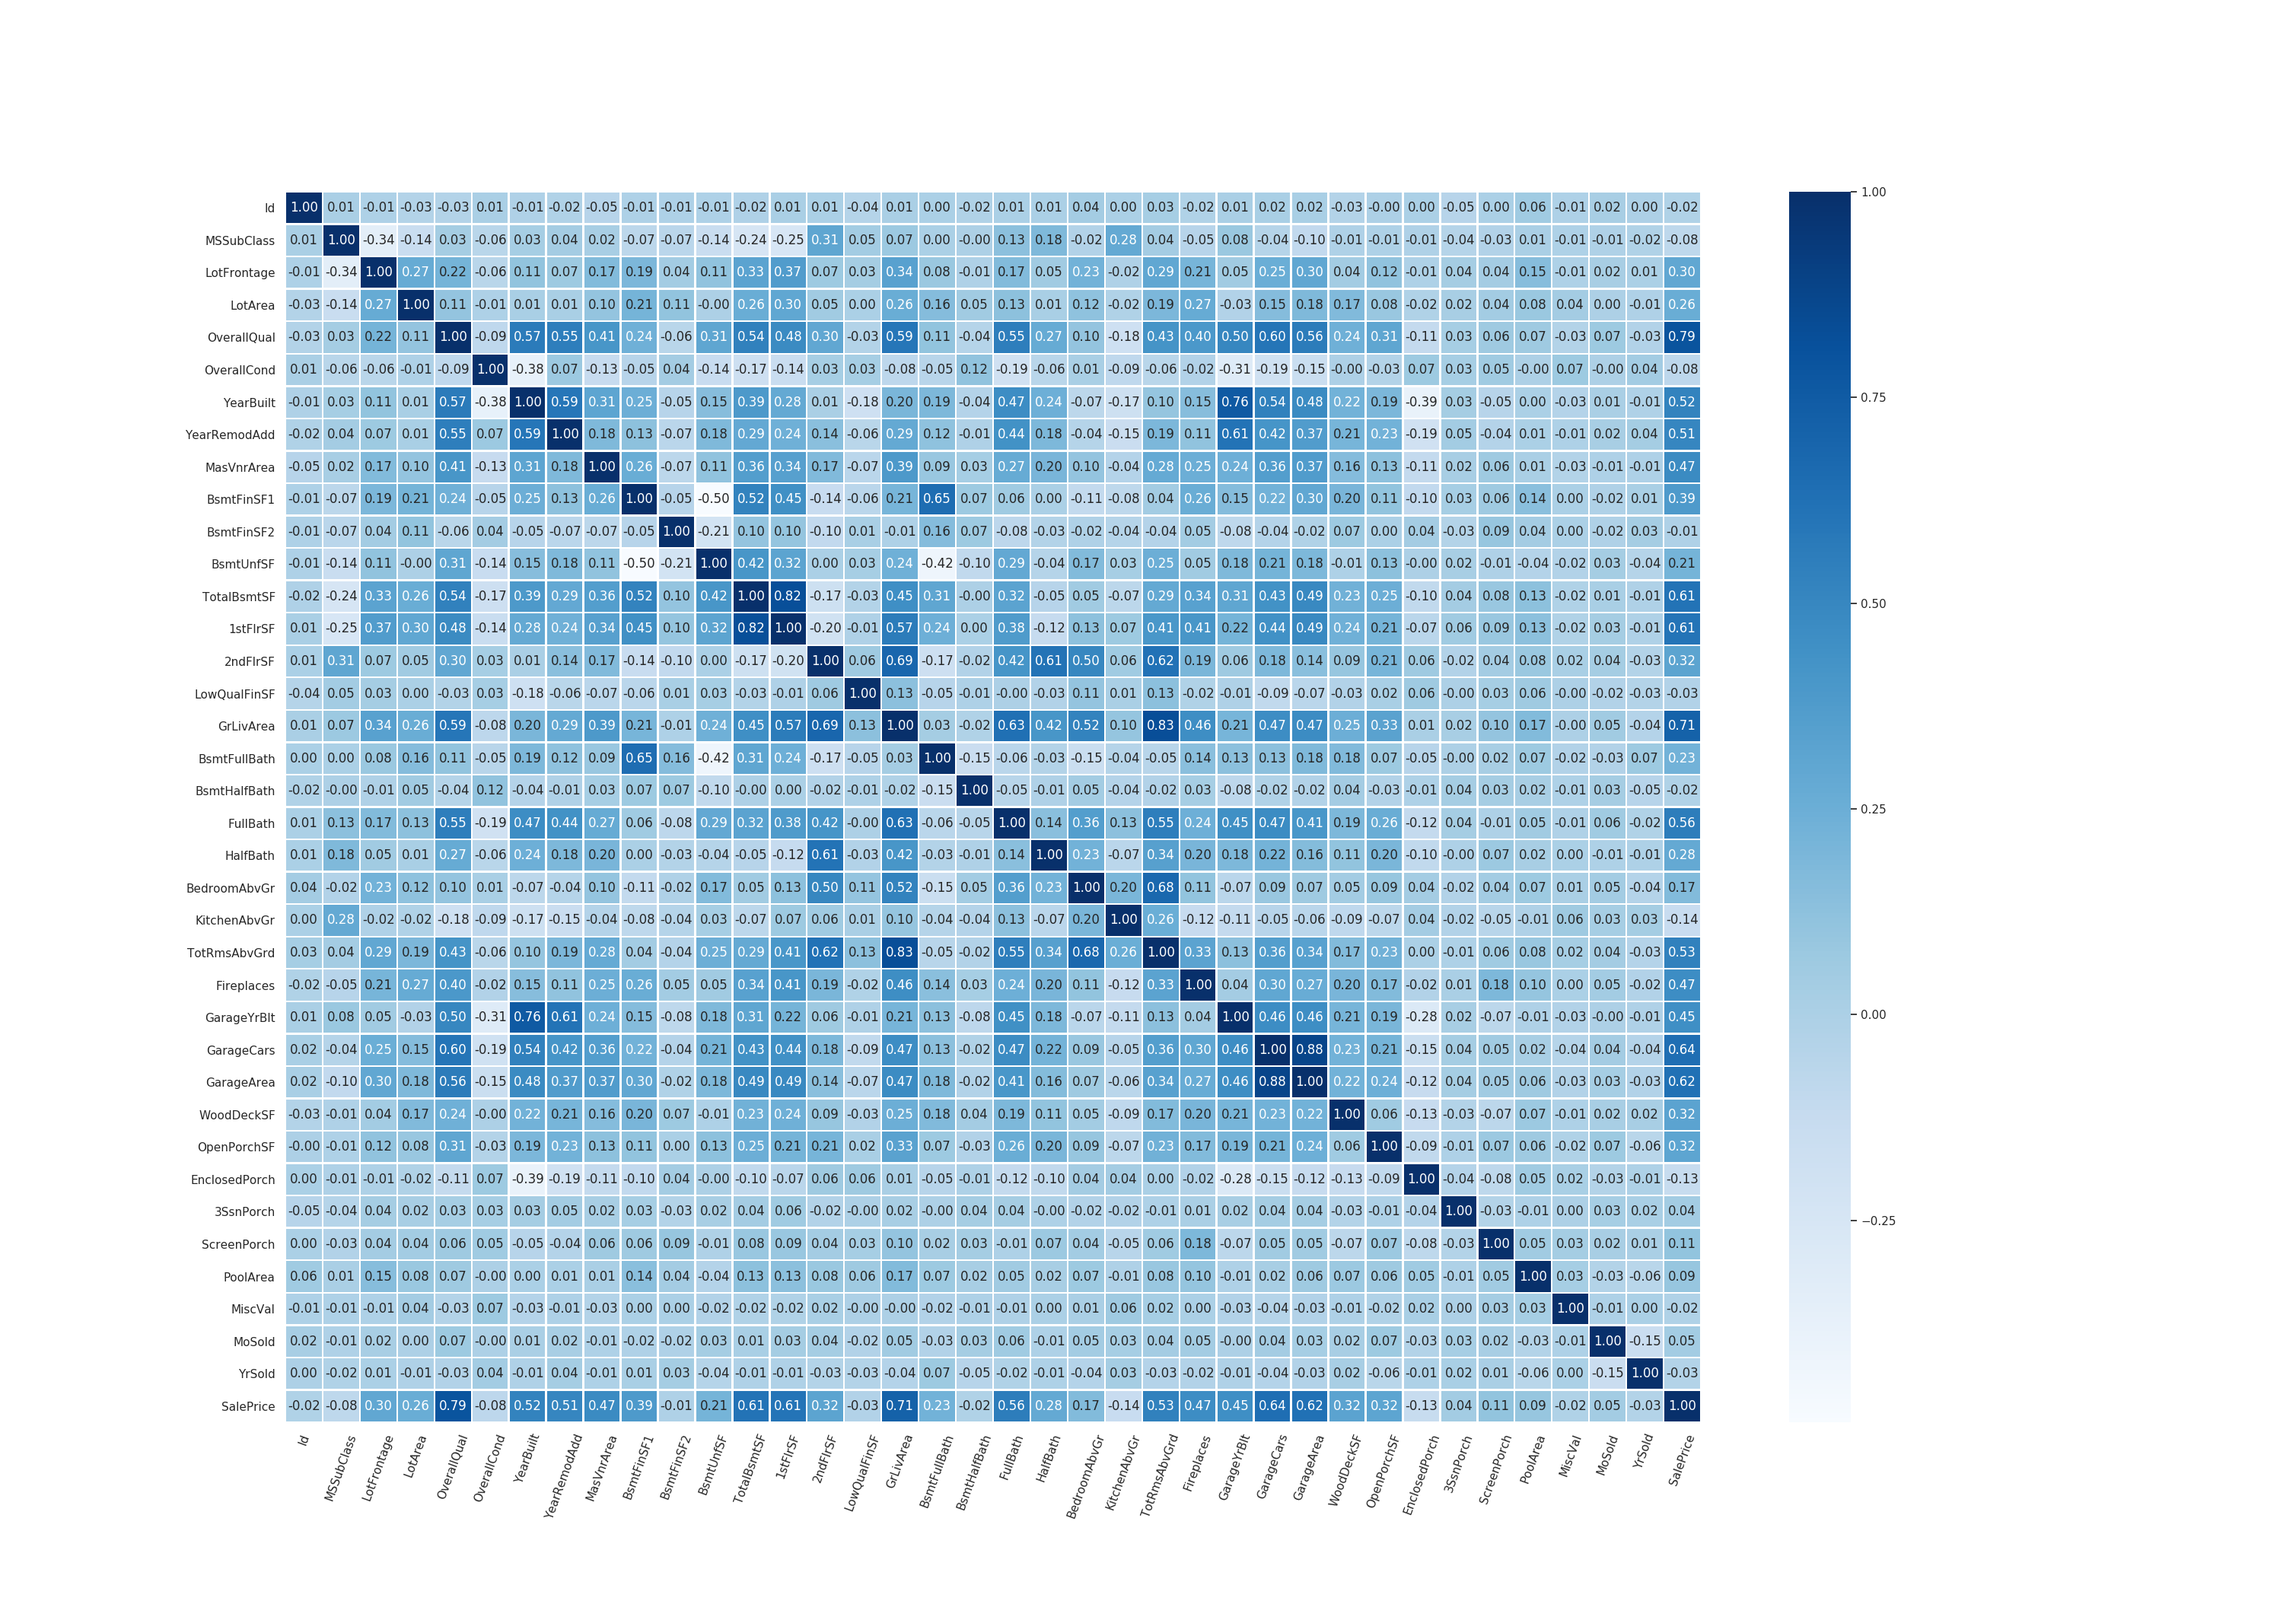
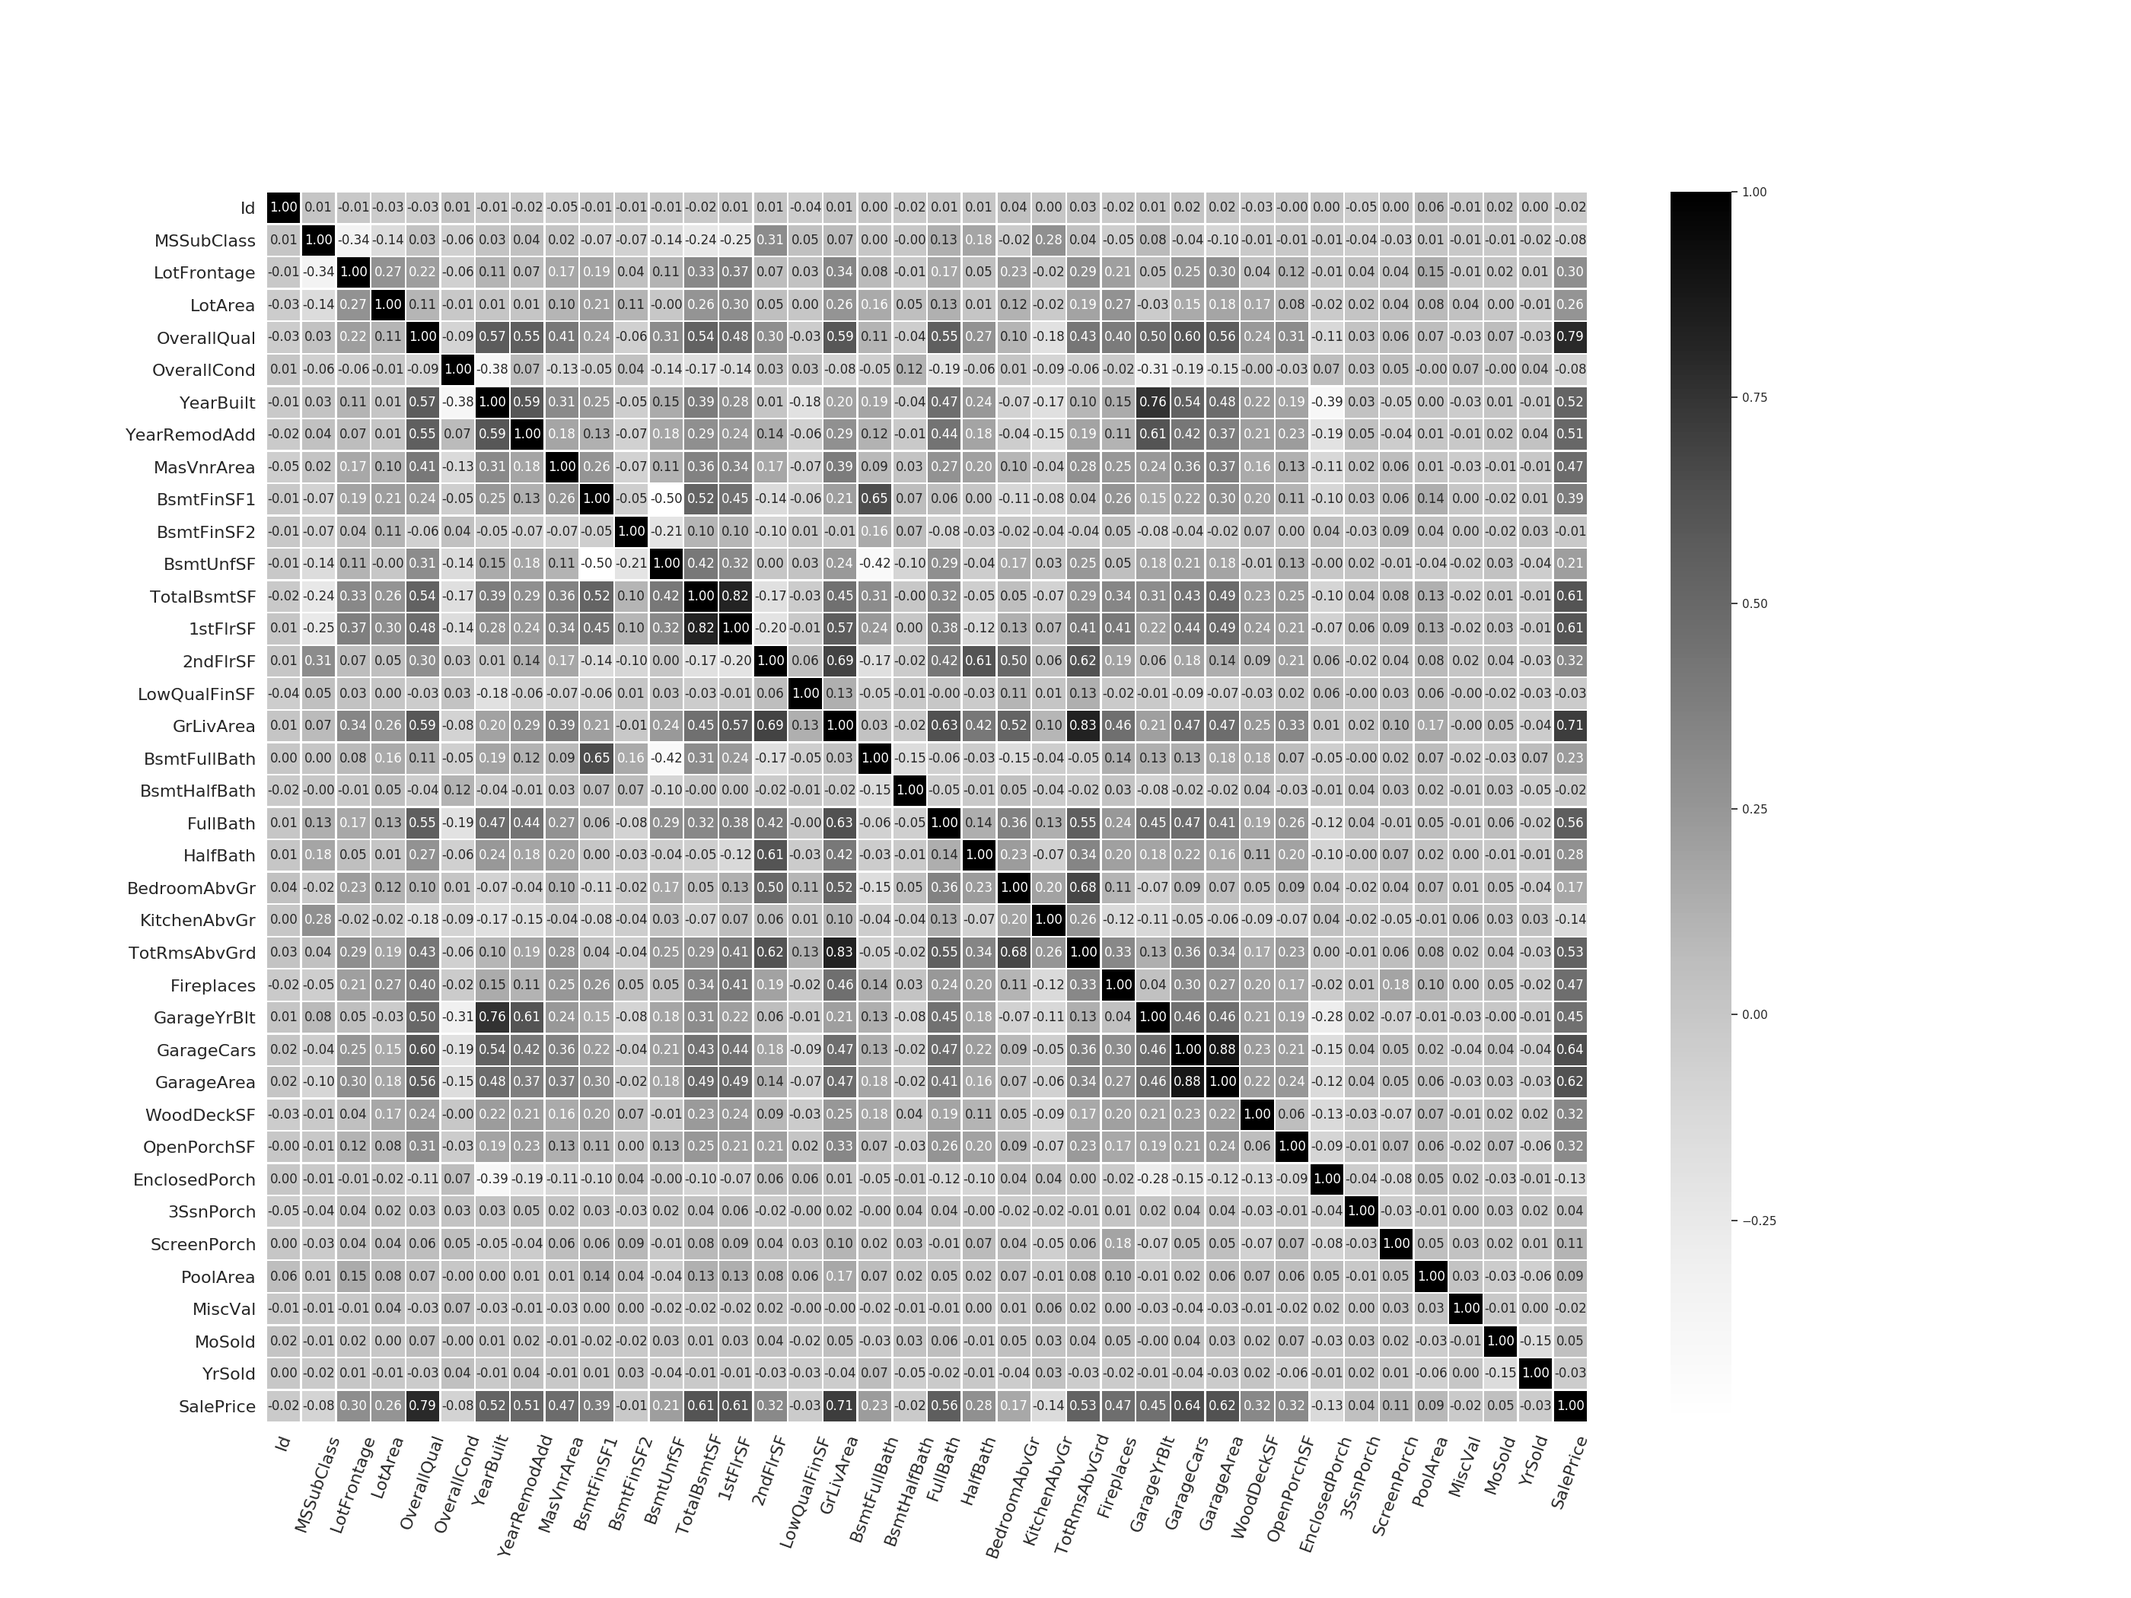
Default design

diff --git a/static/styles/describe.css b/static/styles/describe.css
@@ -1,11 +1,8 @@
 body {
-  background-color: lightblue;
-  padding: 3vh;
+    padding: 2vh;
+    background-color: #F5F5F5 !important;
 }
 
-#div {
-    padding: 1vh;
-}
 
 .container {
   position: relative;
@@ -15,7 +12,7 @@ body {
 .image {
   opacity: 1;
   display: block;
-  width: 100%;
+  width: 50%;
   height: auto;
   transition: .5s ease;
   backface-visibility: hidden;
@@ -26,7 +23,7 @@ body {
   opacity: 0;
   position: absolute;
   top: 50%;
-  left: 50%;
+  left: 25%;
   transform: translate(-50%, -50%);
   -ms-transform: translate(-50%, -50%);
   text-align: center;
@@ -41,45 +38,111 @@ body {
 }
 
 .text {
-  background-color: #4CAF50;
-  color: white;
+  color: black;
   font-size: 16px;
   padding: 16px 32px;
 }
 
+
+
 .tables {
-    height: 40vh;
+    height: 60vh;
     width: 100%;
 	overflow: scroll;
 	background-color: #F0FFF0;
     border: 1px solid;
 	border-radius: 5px;
 	border-collapse: collapse;
+	background-color: white;
+	color: black;
 }
-.tables thead { position: sticky; top: 0; background-color: black; color:white;}
-.tables th:first-child { position: sticky; left: 0; }
-.tables tbody th {position: sticky;
-	left: 0px;}
+
+.tables thead { 
+    position: sticky; 
+    top: 0; 
+    background-color: black; 
+    color: white;
+}
+
+.tables th:first-child { 
+    position: sticky; 
+    left: 0; 
+    background-color: black; 
+    color: white;
+}
+
+.tables tbody th {
+    position: sticky;
+	left: 0px;
+    background-color: black; 
+    color: white;
+}
+
+
 	
 .info {
-    padding: 0.5vh;
     float: left;
 	height: 35vh;
 	overflow-y: scroll;
 	border: 1px solid;
-	border-radius: 3px;
 	margin-bottom: 1vh;
+	background-color: white;
+	color: black;
 }
+
+.info thead { 
+    position: sticky; 
+    top: 0; 
+    background-color: black; 
+    color: white;
+}
+
+.info th:first-child { 
+    position: sticky; 
+    left: 0; 
+    background-color: black; 
+    color: white;
+}
+
+.info tbody th {
+    position: sticky;
+	left: 0px;
+    background-color: black; 
+    color: white;
+}
+
 
 .description {
     float: right;
     border: 1px solid;
-	border-radius: 3px;
 	height: 35vh;
 	overflow-x: scroll;
+	background-color: white;
+	color: black;
+}
+
+.description thead { 
+    position: sticky; 
+    top: 0; 
+    background-color: black; 
+    color: white;
+}
+
+.description th:first-child { 
+    position: sticky; 
+    left: 0; 
+    background-color: black; 
+    color: white;
+}
+
+.description tbody th {
+    position: sticky;
+	left: 0px;
+    background-color: black; 
+    color: white;
 }
 
 .heatmap {
     width: 100%;
-    height: 100%;
+    height: 110vh;
 }

diff --git a/src/modules/single.py b/src/modules/single.py
@@ -12,12 +12,17 @@ class Singular_description(object):
 
 
     def histogram(self, plot_number):
-        sns.set()
-        fig, ax = plt.subplots()
-        fig.set_size_inches(24, 16)
+        sns.set_style("whitegrid")
         
-        ax=sns.distplot(self.dataset.iloc[:, [plot_number]], rug=True)
+        fig, ax = plt.subplots()
+        fig.set_size_inches(16, 12)
+        
+        ax=sns.distplot(self.dataset.iloc[:, [plot_number]], rug=True, color='k')
         fig.patch.set_alpha(0.0)
+        
+        plt.xticks(fontsize=25)
+        plt.yticks(fontsize=25)
+        
         fig.savefig('static/plot{}.png'.format(plot_number + 1), dpi=fig.dpi)
         # return fig
         # plt.show()

diff --git a/src/modules/common.py b/src/modules/common.py
@@ -66,11 +66,12 @@ class Mutual_description(single.Singular_description, mixed.Singular_to_all_desc
     def correlations_heatmap(self):
         sns.set()
         fig, ax = plt.subplots()
-        fig.set_size_inches(30, 21)
+        fig.set_size_inches(28, 21)
         
-        ax=sns.heatmap(self.dataset.corr(), annot=True, linewidths=1, cmap="Blues", fmt='.2f')
+        ax=sns.heatmap(self.dataset.corr(), annot=True, linewidths=1, cmap="Greys", fmt='.2f')
 
-        plt.xticks(rotation=70)
+        plt.xticks(fontsize=16, rotation=70)
+        plt.yticks(fontsize=16)
         
         fig.patch.set_alpha(0.0)
         fig.savefig('static/plot0.png', dpi=fig.dpi)

diff --git a/src/export.py b/src/export.py
@@ -19,10 +19,10 @@ class Connect(object):
         # return self.cursor.histogram(plot_number)
 
     def make_plots(self):
-        pass
-         # self.cursor.correlations_heatmap()
+        # pass
+        self.cursor.correlations_heatmap()
         # for plot_number in range(self.cursor.dataset.shape[1]):
-            # self.cursor.histogram(plot_number)
+        self.cursor.histogram(0)
          
         
     def single_connector(self):
